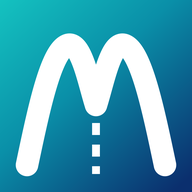
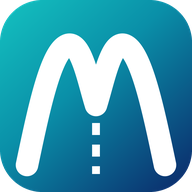
Web 版：ホーム画面のアイコンを角丸に（Android の機種ごとの形に合わせる maskable も追加）。キャッシュ名を v28-web2 にして新しいアイコンと manifest を届ける（10/23 本人の指摘）
Claude-Session: https://claude.ai/code/session_011j7CBnfwhjc6zh1iaMGRhh

diff --git a/service-worker.js b/service-worker.js
@@ -9,7 +9,7 @@
 //   このファイルではキャッシュ処理のみを扱う。
 // - バックエンド通信・外部APIは扱わない。
 
-const CACHE_NAME = "michito-owner-preview-cache-v28";
+const CACHE_NAME = "michito-owner-preview-cache-v28-web2";
 
 const CORE_ASSETS = [
   "./",
